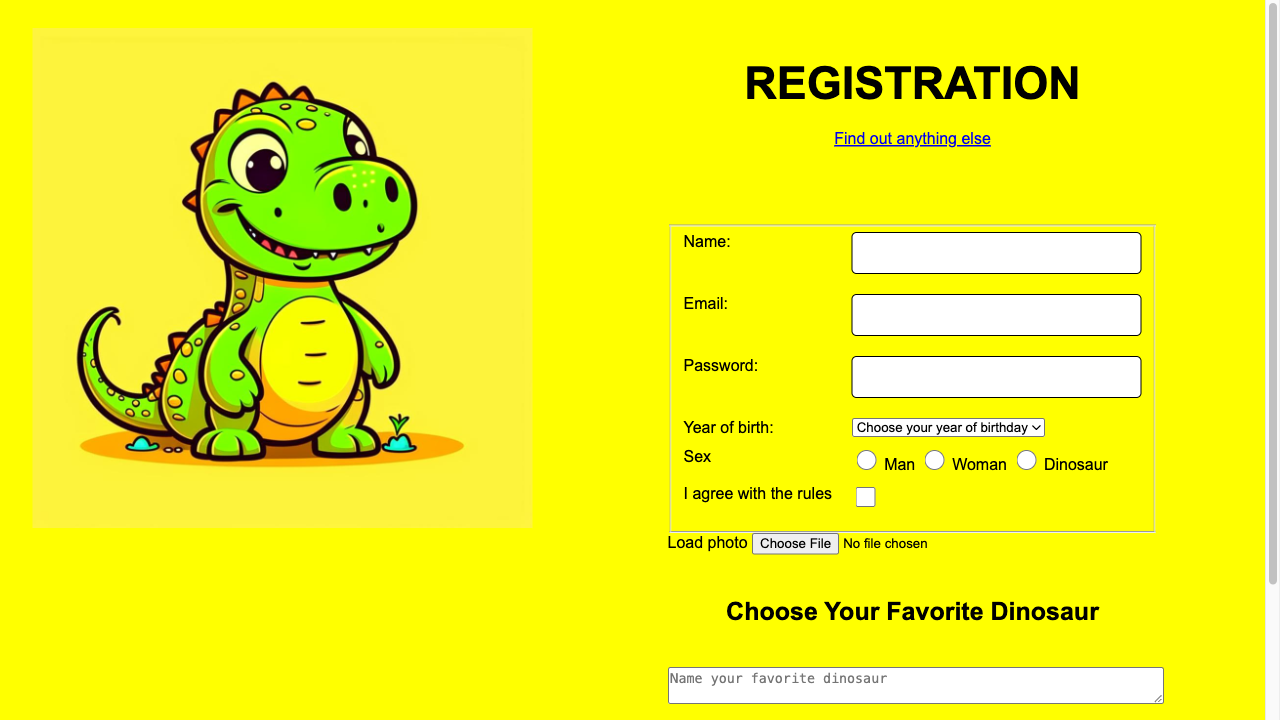
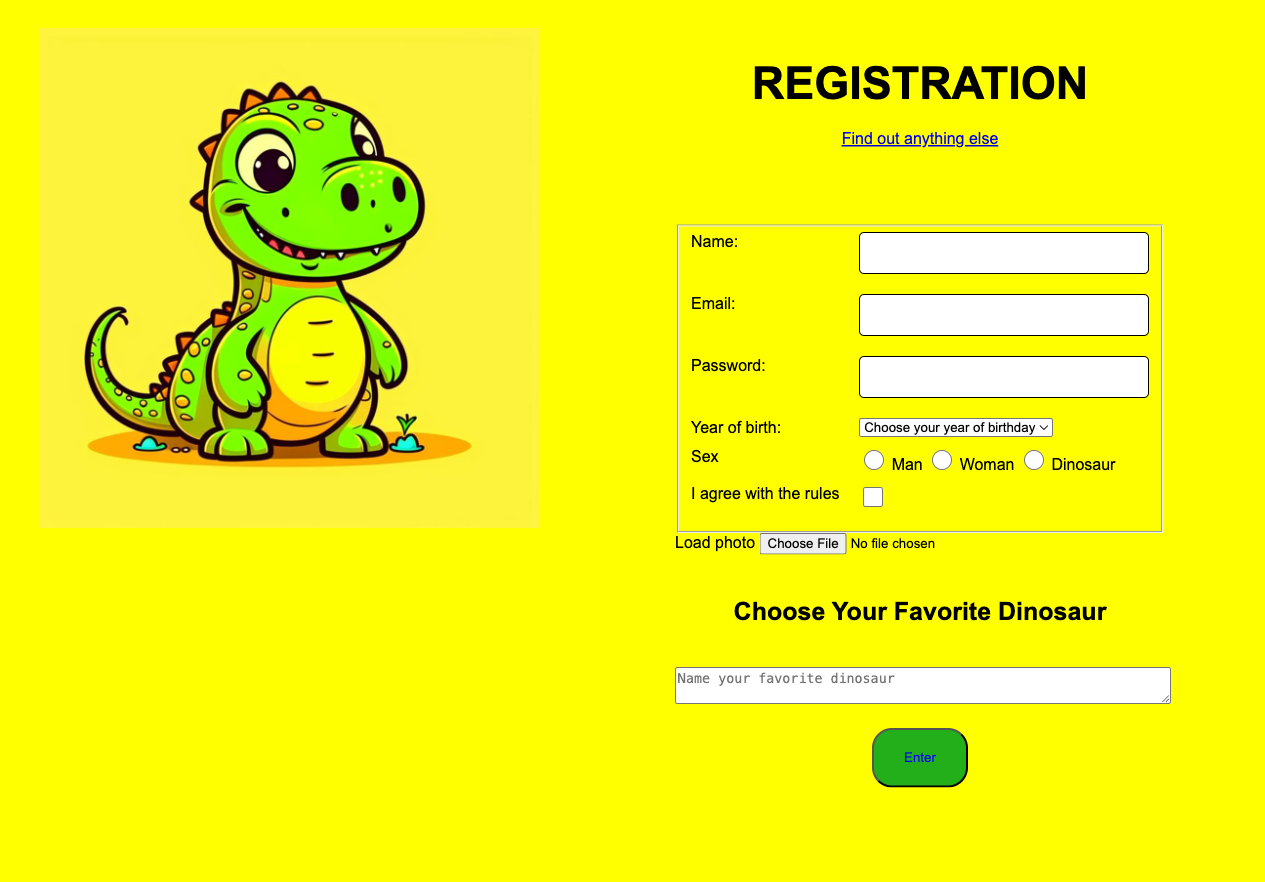
add update 3

diff --git a/tests/screenshot.spec.ts b/tests/screenshot.spec.ts
@@ -4,13 +4,13 @@ test.describe('screenshot', () => {
   test('make screenshot', async ({ page }) => {
     await page.goto('http://127.0.0.1:5500/src/index.html');
     // Сохранение скриншота в файл
-    await page.screenshot({ path: 'screenshot.png' });
+    await page.screenshot({ path: 'screenshot.png', fullPage: true });
   });
 
   test('comparison with standard', async ({ page }) => {
     await page.goto('http://127.0.0.1:5500/src/index.html');
     // Сравнение скриншота с сохраненным ранее эталоном
-    await expect(page).toHaveScreenshot({ path: 'screenshot.png' });
+    await expect(page).toHaveScreenshot('screenshot.png');
   });
 
   test('Enter data and validation', async ({ page }) => {
@@ -24,7 +24,7 @@ test.describe('screenshot', () => {
     const radio = page.locator('#radio');
 
     // Вводим данные в поля формы
-    await page.fill('input#name', '');
+    await page.fill('input#name', 'test');
     await page.fill('input#email', 'test123@test.by');
     await page.fill('input#password', 'testpassword123');
     await page.screenshot({ path: 'screenshots/02-form-filled.png', fullPage: true });
